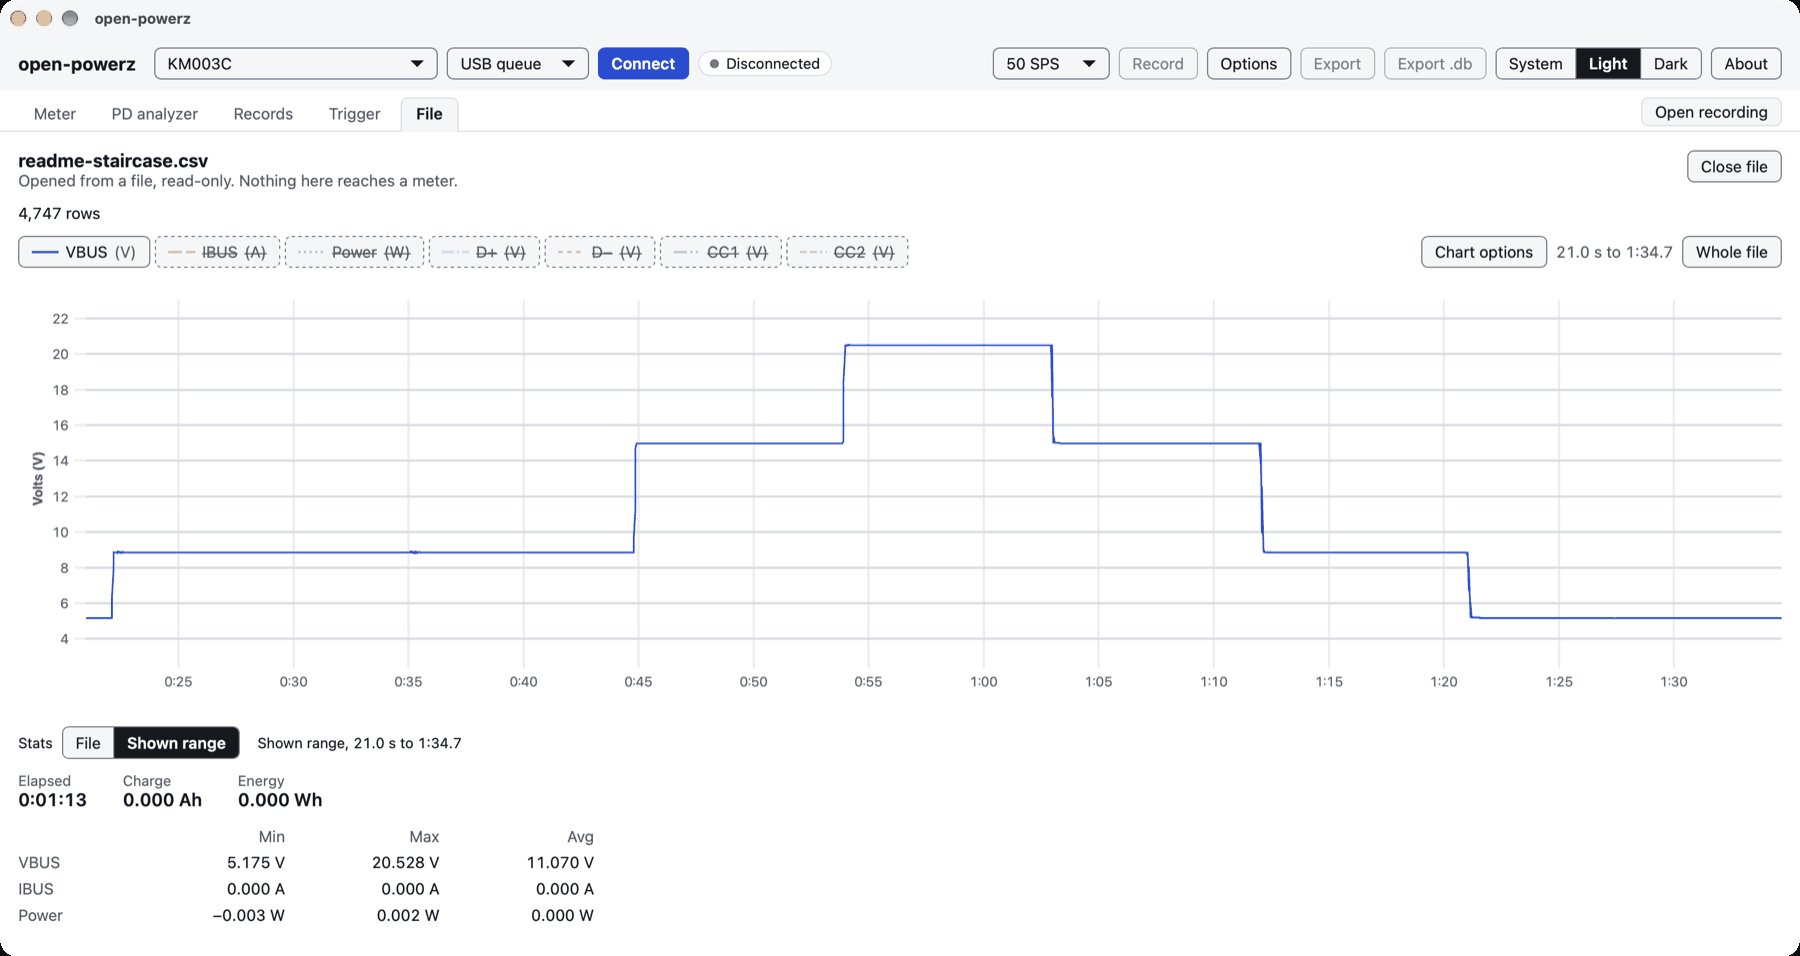
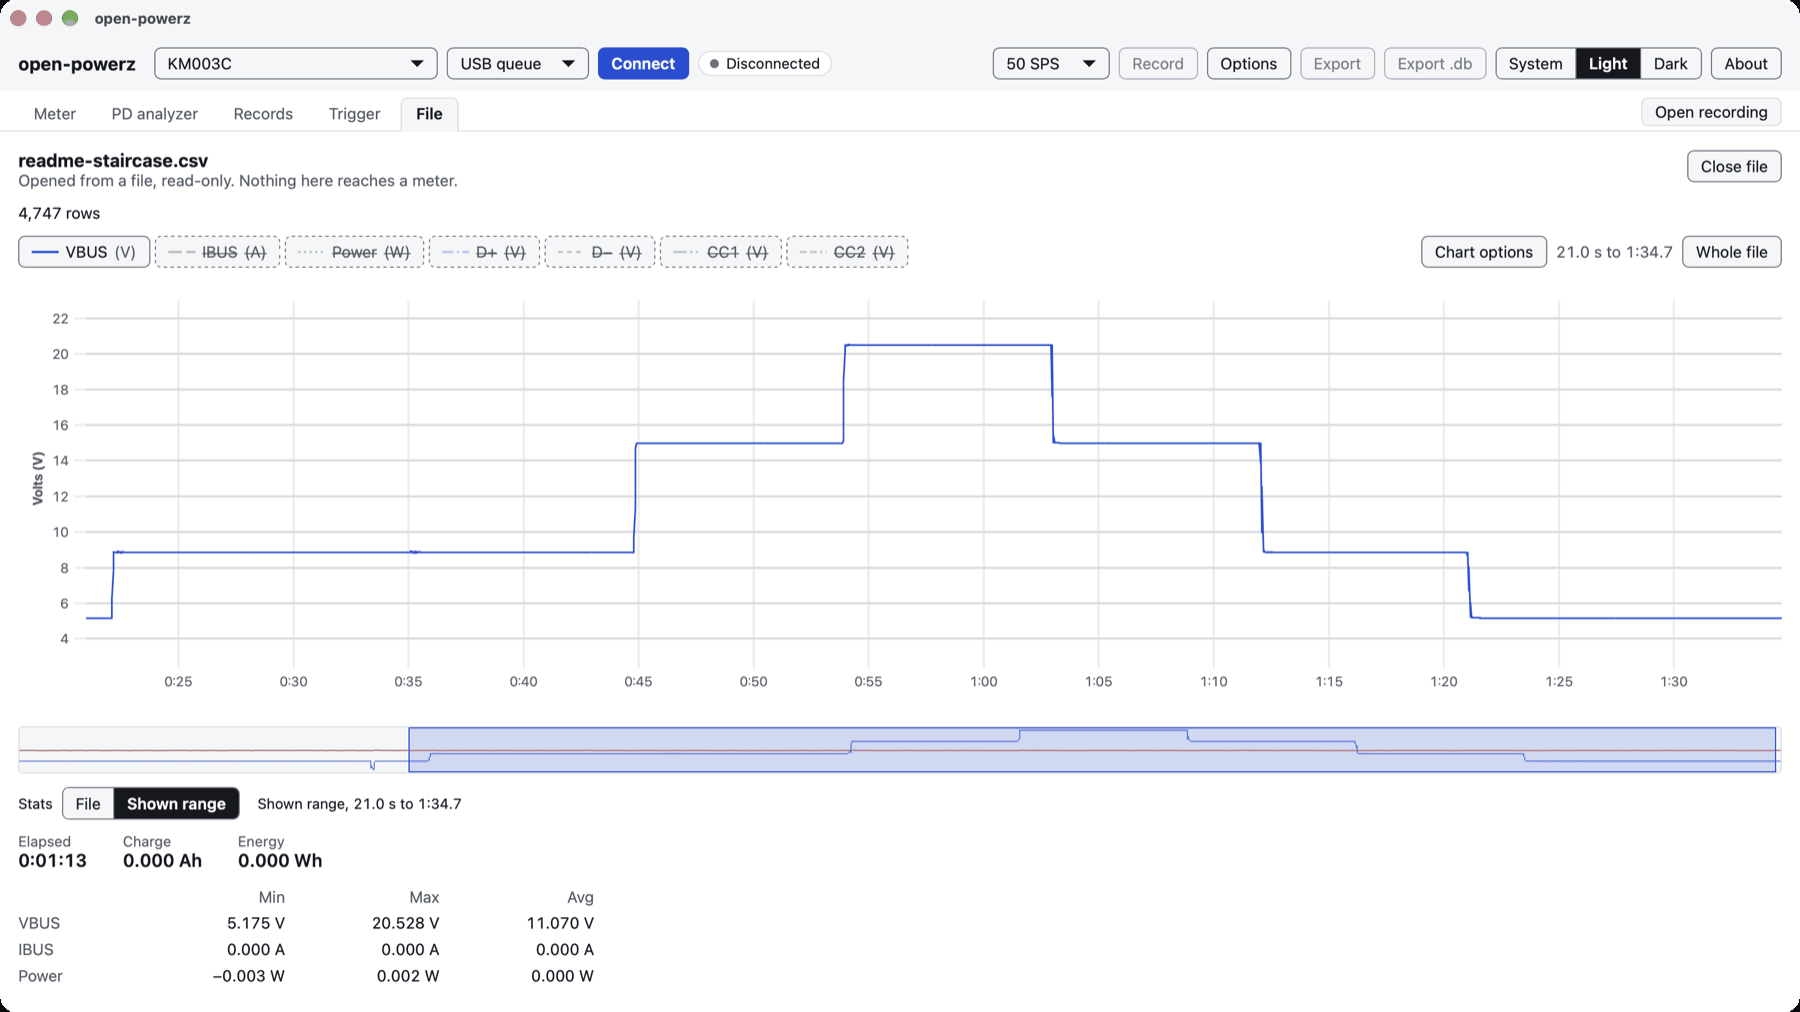
docs(readme): the screenshot shows off its new timeline strip
Retaken mouse-only from a release build launched with the recording:
zoomed 21.0 s-1:34.7, Stats on Shown range, overview strip under the chart.

Refs: 09H204

diff --git a/README.md b/README.md
@@ -15,7 +15,7 @@ the features of the vendor's Windows-only "POWER-Z Lab" PC software with a moder
 real KM003C.
 The KM002C should work the same way but is untested. Release builds are not signed yet.
 
-![The desktop app with a real KM003C recording opened from a CSV: an Apple 140 W charger asked over USB PD for 5, 9, 15 and 20 V and back down](docs/images/desktop.png)
+![The desktop app with a real KM003C recording opened from a CSV: an Apple 140 W charger asked over USB PD for 5, 9, 15 and 20 V and back down, zoomed in, with the overview strip of the whole file under the chart](docs/images/desktop.png)
 
 ## Install
 
